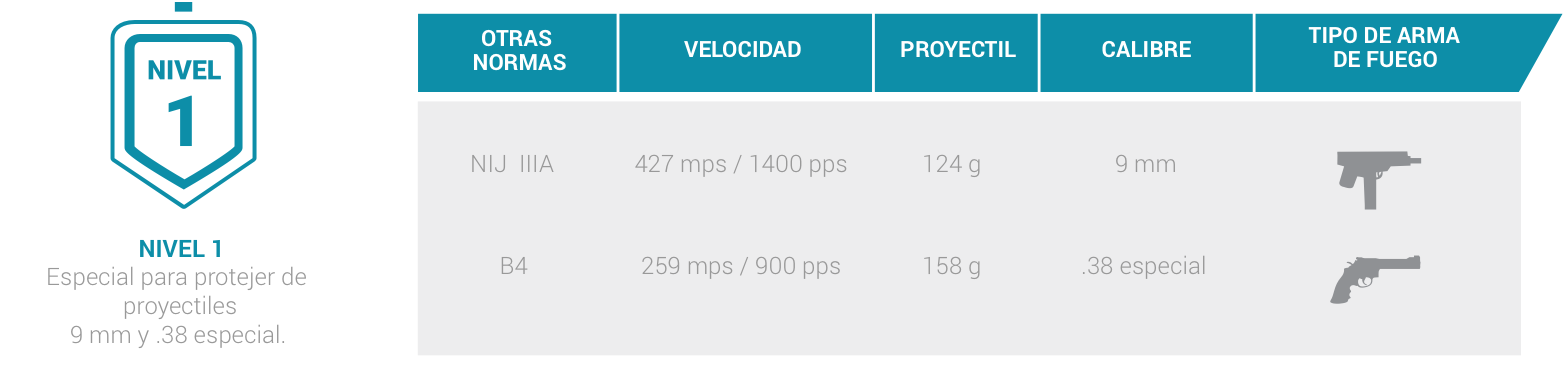
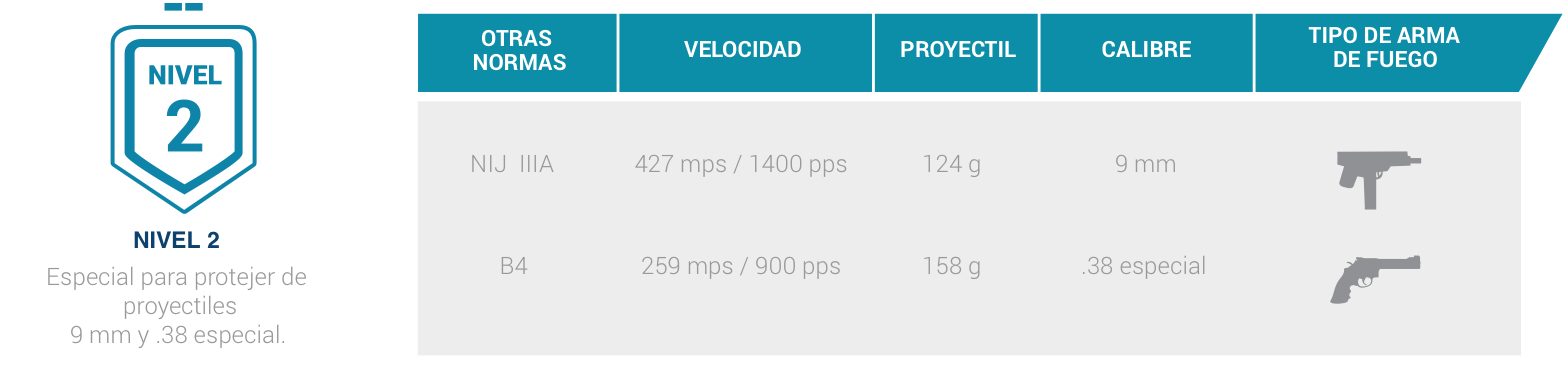
corrected levels and truck

Changed region(s): [[0.0614, 0.2619, 0.1841, 0.582], [0.0614, 0.0, 0.1841, 0.2328], [0.0614, 0.6111, 0.1535, 0.6984]]

diff --git a/wp-content/themes/sage-master/assets/styles/layouts/_pages.scss b/wp-content/themes/sage-master/assets/styles/layouts/_pages.scss
@@ -142,27 +142,7 @@
       text-decoration: none;
     }
   }
-  .box {
-    background: $red;
-    width: 40px;
-    height: 40px;
-    display: block;
-    margin: 0px auto;
-    &:after {
-      content: ' ';
-      width: 36px;
-      height: 36px;
-      background: $red;
-      border: 2px solid $white;
-      position: absolute;
-      display: block;
-      margin-left: 2px;
-      margin-top: 2px;
-    }
-  }
   .area-content {
-    border-left: 1px solid $gray-light;
-    padding-left: 60px;
     .area-replace-content {
       min-height: 42px;
       span {
@@ -202,22 +182,13 @@
       }
       span {
         display: inline-block;
-        border: 1.5px solid $white;
-        width: 14px;
-        height: 14px;
+        background: $white;
+        width: 10px;
+        height: 10px;
         position: absolute;
-        line-height: 9px;
         border-radius: 50%;
         z-index: 3;
-        &:after {
-          content: ' ';
-          background: $white;
-          width: 8px;
-          display: inline-block;
-          height: 8px;
-          margin-top: 0px;
-          border-radius: 50%;
-        }
+        box-shadow: 0 0 5px rgba(0,0,0, .3);
         &.techo {
           top: 10px; right: 300px;
         }

diff --git a/wp-content/themes/sage-master/templates/levels.php b/wp-content/themes/sage-master/templates/levels.php
@@ -36,9 +36,9 @@
           <div class="row">
             <div class="col-sm-4 col-xs-6 text-center level">
               <div class="wrapper">
-                <img src="<?php bloginfo('stylesheet_directory'); ?>/assets/images/level-1.png">
+                <img src="<?php bloginfo('stylesheet_directory'); ?>/assets/images/level-2.png">
                 <h4>
-                  NIVEL 1:
+                  NIVEL 2:
                 </h4>
                 <p>
                   Especial para protejer de proyectiles 9 mm y .38 especial.
@@ -50,9 +50,9 @@
             </div>
             <div class="col-sm-4 col-xs-6 text-center level">
               <div class="wrapper">
-                <img src="<?php bloginfo('stylesheet_directory'); ?>/assets/images/level-2.png">
+                <img src="<?php bloginfo('stylesheet_directory'); ?>/assets/images/level-3.png">
                 <h4>
-                  NIVEL 2:
+                  NIVEL 3:
                 </h4>
                 <p>
                   Especial para protejer de proyectiles .357 magnum y .44 magnum.
@@ -64,9 +64,9 @@
             </div>
             <div class="col-sm-4 col-xs-6 text-center level">
               <div class="wrapper">
-                <img src="<?php bloginfo('stylesheet_directory'); ?>/assets/images/level-3.png">
+                <img src="<?php bloginfo('stylesheet_directory'); ?>/assets/images/level-4.png">
                 <h4>
-                  NIVEL 3:
+                  NIVEL 4:
                 </h4>
                 <p>
                   Especial para protejer de proyectiles CAL Carbine y AK-47
@@ -78,9 +78,9 @@
             </div>
             <div class="col-sm-4 col-xs-6 col-sm-offset-2 text-center level">
               <div class="wrapper">
-                <img src="<?php bloginfo('stylesheet_directory'); ?>/assets/images/level-4.png">
+                <img src="<?php bloginfo('stylesheet_directory'); ?>/assets/images/level-5.png">
                 <h4>
-                  NIVEL 4:
+                  NIVEL 5:
                 </h4>
                 <p>
                   Especial para protejer de proyectiles M80, Winchester FMJ, M-16/193
@@ -92,9 +92,9 @@
             </div>
             <div class="col-sm-4 col-xs-6 col-xs-offset-3 text-center level">
               <div class="wrapper">
-                <img src="<?php bloginfo('stylesheet_directory'); ?>/assets/images/level-5.png">
+                <img src="<?php bloginfo('stylesheet_directory'); ?>/assets/images/level-6.png">
                 <h4>
-                  NIVEL 5:
+                  NIVEL 6:
                 </h4>
                 <p>
                   Especial para protejer de proyectiles FAL 30-60.

diff --git a/wp-content/themes/sage-master/templates/areas.php b/wp-content/themes/sage-master/templates/areas.php
@@ -185,10 +185,7 @@
         <div class="areas-car-info hidden-xs">
           <div class="container">
             <div class="row">
-              <div class="col-sm-2 col-sm-offset-2 text-right">
-                <span class="box"></span>
-              </div>
-              <div class="col-sm-6 area-content">
+              <div class="col-sm-8 col-sm-offset-2 area-content">
                 <p class="area-replace-content">
                   <span class="techo">Techo: <br> test</span>
                   <span class="coronas">Coronas: <br> test</span>

diff --git a/wp-content/themes/sage-master/templates/contacto.php b/wp-content/themes/sage-master/templates/contacto.php
@@ -11,10 +11,9 @@
     <div class="collapse" id="collapseContact">
       <p class="text-right">
         <strong>
-          Carr Federal México Toluca 3128
-          <br>Abdías García Soto, 05530
-          <br>Ciudad de México, D.F.
-          <br>TEL: 01 55 5700 0202
+          Carretera Federal México Toluca 3128
+          <br>Col. Locaxco
+          <br>Tel 55 57 00 02 02
         </strong>
       </p>
       <?php echo do_shortcode( '[contact-form-7 id="5" title="Contact form 1"]' ); ?>
